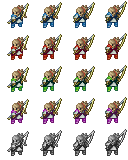
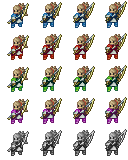
Fixed sniper-m

diff --git a/splitter.py b/splitter.py
@@ -354,7 +354,7 @@ HEAD_PARAMS = {
         'size': 'large',
         },
     'sniper-m': {
-        'offset': [],
+        'offset': [(1,2),(1,3),(1,3),(1,3),],
         'size': 'large',
         },
     'wyvern-lord': {
